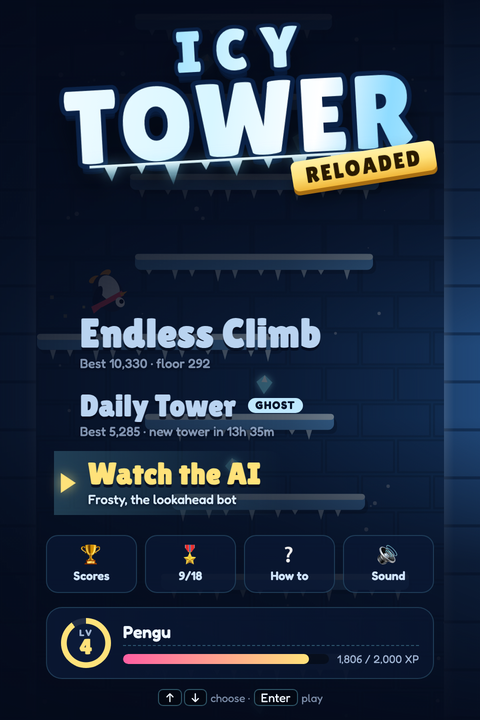
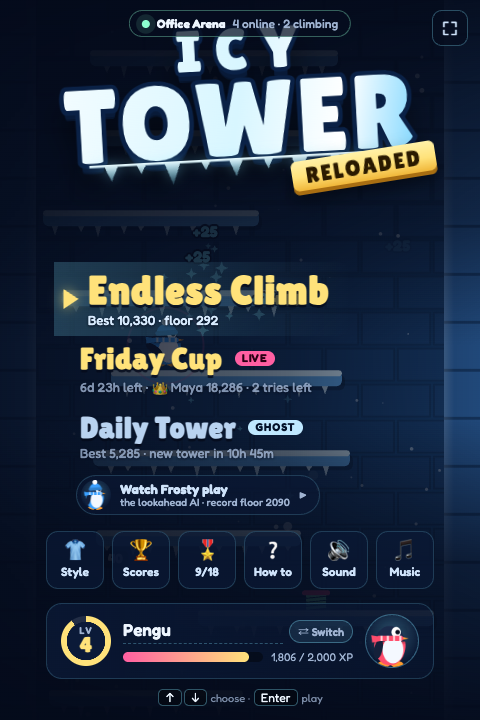
Refresh the README title screenshot for 0.2.0
The old one predated the arena, the Style and Music buttons and the Watch
Frosty link. The new one is the arena title screen: the online pill, a
live tournament, the modes, Watch Frosty play and the Switch button.

diff --git a/README.md b/README.md
@@ -17,7 +17,7 @@ Run fast, jump high, chain combos and don't fall off the bottom.
 
 <img src="docs/media/climb.gif" width="300" alt="Gameplay: the penguin climbs the Ice Cave, chains combos and unlocks achievements" />
 &nbsp;&nbsp;
-<img src="docs/media/title.png" width="300" alt="Title screen with game modes and player card" />
+<img src="docs/media/title.png" width="300" alt="Title screen on an office arena: a live tournament, the game modes, Watch Frosty play and the player card" />
 
 </div>
 
